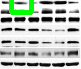
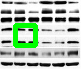
automatic mask thresholding

Changed region(s): [[0.1481, 0.3188, 0.4691, 0.6957], [0.0988, 0.0, 0.4198, 0.2319]]

diff --git a/CNN_Yuan/run_pure_conv.py b/CNN_Yuan/run_pure_conv.py
@@ -42,7 +42,7 @@ def Mask_Gen():
     model.compile(loss='mse',
         optimizer='adam',
         metrics=['accuracy'])
-    model.summary()
+    # model.summary()
 
     return model
 
@@ -55,23 +55,31 @@ img  = Image.open('dataset/original/four_orig.jpeg')
 img = cv2.resize(np.float32(img), dsize=(324, 374), interpolation=cv2.INTER_CUBIC)
 # If only one channel
 img = cv2.merge((img,img,img))
-print(img.shape)
+# print(img.shape)
 x = np.expand_dims(img, axis=0)
-print(x.shape)
+# print(x.shape)
 
 x = np.expand_dims(img, axis=0)
 
 res = classifier.predict(x)
-print(res.shape)
+# print(res.shape)
 res = np.squeeze(res, axis=0)
 res = np.squeeze(res, axis=-1)
-print(res.shape)
+# print(res.shape)
 # res = cv2.GaussianBlur(res, (11, 11), 0)
 # res = cv2.threshold(res, 5, 255, cv2.THRESH_BINARY)[1]
 # 16,17 for four/one. 17,18 for three/two.
-lower_red = np.array([16])
-upper_red = np.array([17])
-# print(res[33,51])
+
+# the area of the image with the largest intensity value
+(minVal, maxVal, minLoc, maxLoc) = cv2.minMaxLoc(res)
+# print(maxLoc)
+x = maxLoc[0]
+y = maxLoc[1]
+val = int(res[y,x])
+print("Threshold Pixel Value " + str(val))
+lower_red = np.array([val])
+upper_red = np.array([val+1])
+# print(res[44,32])
 res = cv2.inRange(res, lower_red, upper_red)
 labels = {1:'Forged',2:'Pristine'}
 plt.imshow(res.astype('uint8'))
@@ -80,9 +88,6 @@ cbar.ax.set_yticklabels(['Pristine','','','','','Forged'])
 cbar.set_label('Forgery Index')
 plt.show()
 
-# the area of the image with the largest intensity value
-(minVal, maxVal, minLoc, maxLoc) = cv2.minMaxLoc(res)
-print(maxLoc)
 x_max = maxLoc[0] + 10
 x_min = maxLoc[0] - 10
 y_max = maxLoc[1] + 10

diff --git a/CNN_Yuan/channel_check.py b/CNN_Yuan/channel_check.py
@@ -1,0 +1,15 @@
+from PIL import Image
+import cv2
+
+
+image = cv2.imread('dataset/original/one_orig.jpeg')
+print(image.shape)
+if image.ndim == 2:
+
+    channels = 1 #single (grayscale)
+
+if image.ndim == 3:
+
+    channels = image.shape[-1]
+
+print(channels)
